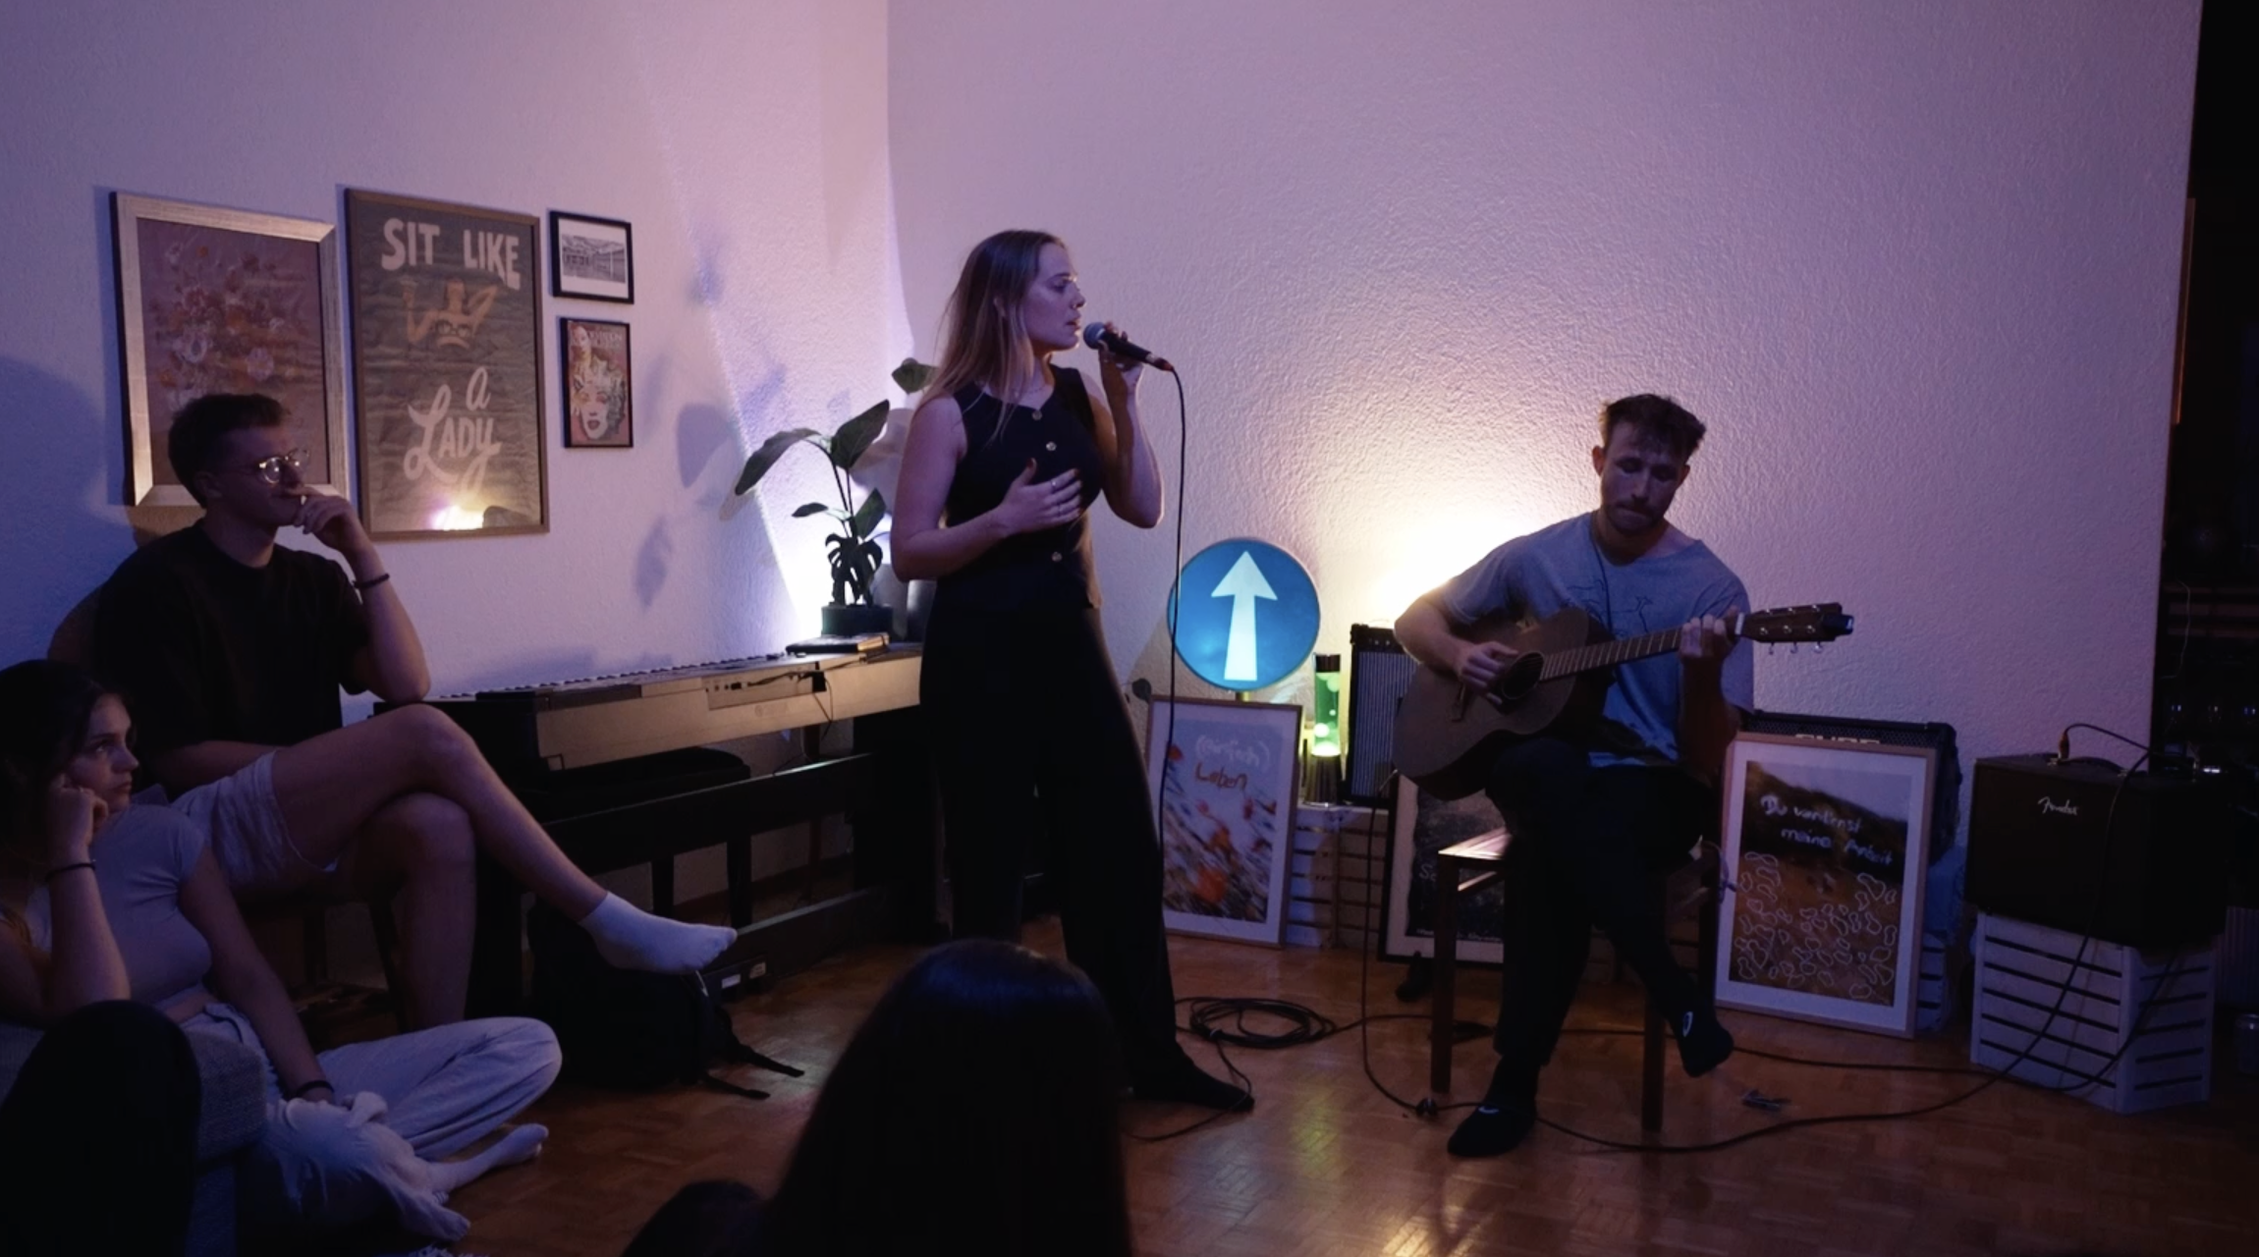
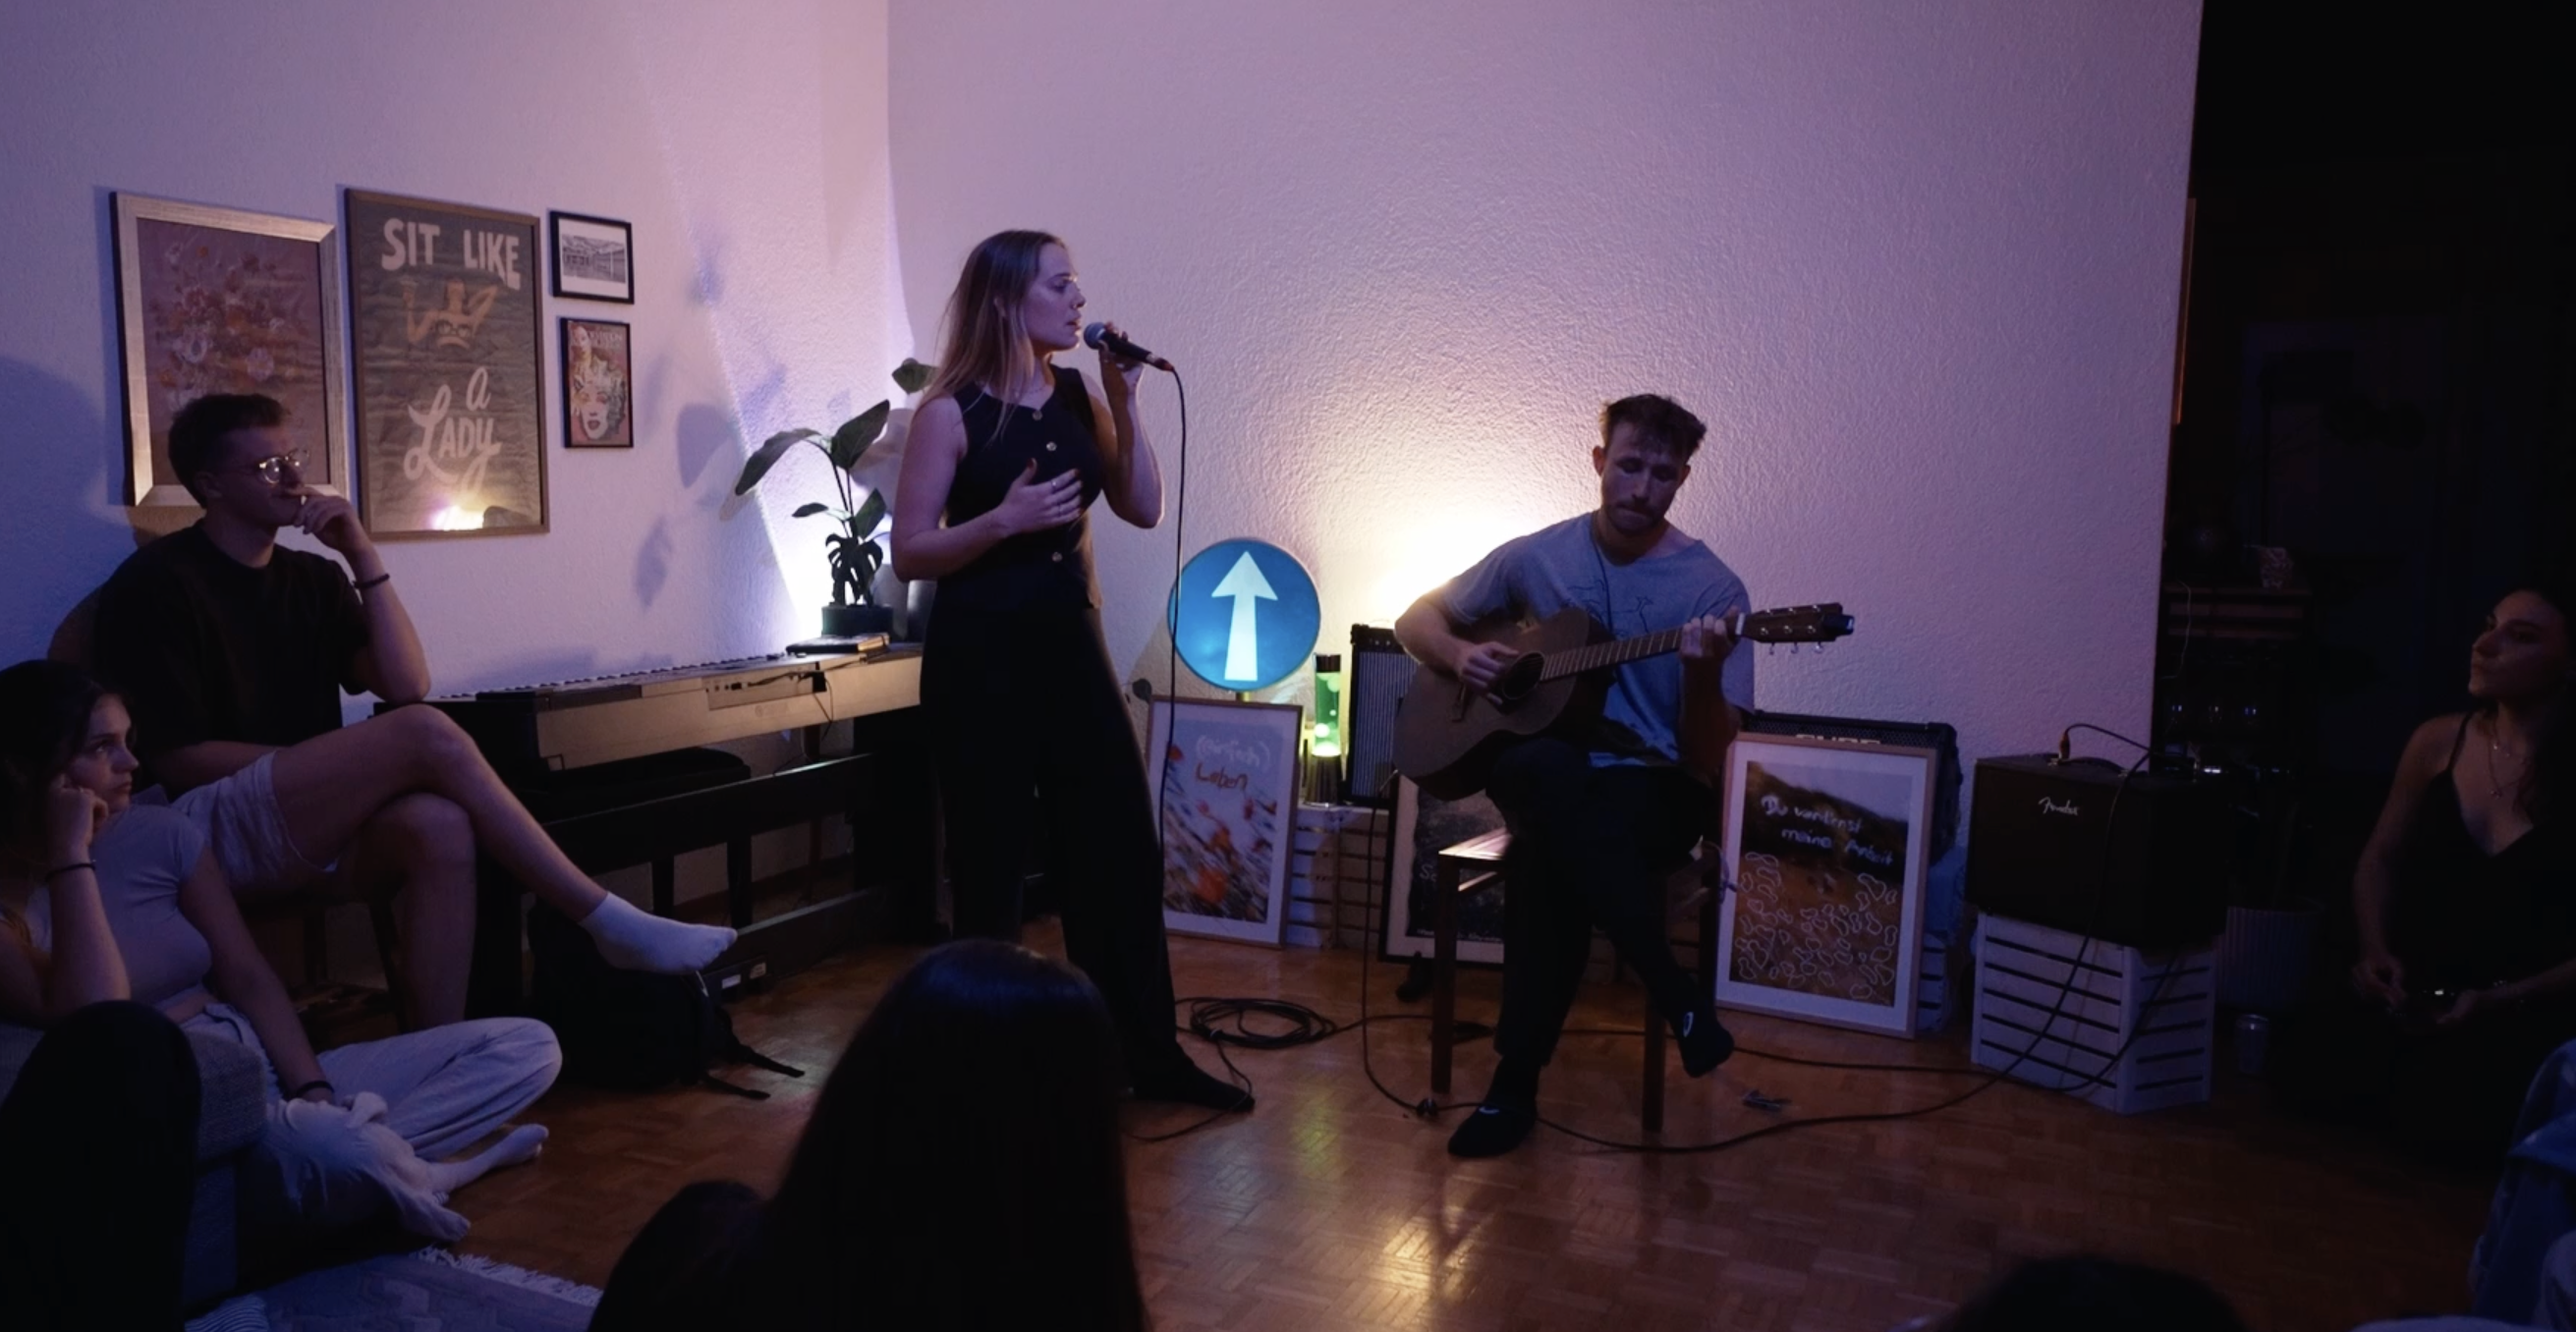
Added Couch Session photos and which event it belongs to.

diff --git a/content/upcoming-events/_index.de.md b/content/upcoming-events/_index.de.md
@@ -9,6 +9,8 @@ Schau hier vorbei für unsere kommenden öffentlichen Auftritte und Events.
 ### Mai 2026
 
 <div class="past-events">
-  <div class="past-event">Mänis Saloon <a href="/gallery/">→ Siehe Fotos</a></div>
-  <div class="past-event">Openhouse Emmenhof <a href="/gallery/">→ Siehe Fotos</a></div>
+  <div class="past-event">09.05.2026 Couch Session by GWEN <a href="/gallery/">→ Siehe Fotos</a></div>
+  <div class="past-event">23.05.2026 Mänis Saloon <a href="/gallery/">→ Siehe Fotos</a></div>
+  <div class="past-event">23.05.2026 Openhouse Emmenhof <a href="/gallery/">→ Siehe Fotos</a></div>
+  <div class="past-event">30.05.2026 Privater Anlass</div>
 </div>

diff --git a/content/upcoming-events/_index.pt-br.md b/content/upcoming-events/_index.pt-br.md
@@ -9,6 +9,8 @@ Volte aqui para nossas próximas apresentações públicas e eventos.
 ### Maio 2026
 
 <div class="past-events">
-  <div class="past-event">Mänis Saloon <a href="/gallery/">→ Ver Fotos</a></div>
-  <div class="past-event">Openhouse Emmenhof <a href="/gallery/">→ Ver Fotos</a></div>
+  <div class="past-event">09.05.2026 Couch Session by GWEN <a href="/gallery/">→ Ver Fotos</a></div>
+  <div class="past-event">23.05.2026 Mänis Saloon <a href="/gallery/">→ Ver Fotos</a></div>
+  <div class="past-event">23.05.2026 Openhouse Emmenhof <a href="/gallery/">→ Ver Fotos</a></div>
+  <div class="past-event">30.05.2026 Evento Privado</div>
 </div>

diff --git a/content/upcoming-events/_index.en.md b/content/upcoming-events/_index.en.md
@@ -9,6 +9,8 @@ Check back here for our upcoming public performances and events.
 ### May 2026
 
 <div class="past-events">
-  <div class="past-event">Mänis Saloon <a href="/gallery/">→ See Photos</a></div>
-  <div class="past-event">Openhouse Emmenhof <a href="/gallery/">→ See Photos</a></div>
+  <div class="past-event">09.05.2026 Couch Session by GWEN <a href="/gallery/">→ See Photos</a></div>
+  <div class="past-event">23.05.2026 Mänis Saloon <a href="/gallery/">→ See Photos</a></div>
+  <div class="past-event">23.05.2026 Openhouse Emmenhof <a href="/gallery/">→ See Photos</a></div>
+  <div class="past-event">30.05.2026 Private Event</div>
 </div>

diff --git a/content/gallery/_index.de.md b/content/gallery/_index.de.md
@@ -26,7 +26,7 @@ Eine Sammlung von Fotos aus unseren Auftritten und Events.
   </div>
 </div>
 
-<h2>Wohnzimmerkonzert, Biel</h2>
+<h2>Couch Session by GWEN, Biel</h2>
 
 <div class="gallery-grid">
   <div class="gallery-item">

diff --git a/content/gallery/_index.en.md b/content/gallery/_index.en.md
@@ -26,7 +26,7 @@ A collection of photos from our performances and events.
   </div>
 </div>
 
-<h2>Couch Session, Biel</h2>
+<h2>Couch Session by GWEN, Biel</h2>
 
 <div class="gallery-grid">
   <div class="gallery-item">

diff --git a/content/gallery/_index.pt-br.md b/content/gallery/_index.pt-br.md
@@ -26,7 +26,7 @@ Uma coleção de fotos de nossos shows e eventos.
   </div>
 </div>
 
-<h2>Couch Session, Biel</h2>
+<h2>Couch Session by GWEN, Biel</h2>
 
 <div class="gallery-grid">
   <div class="gallery-item">
